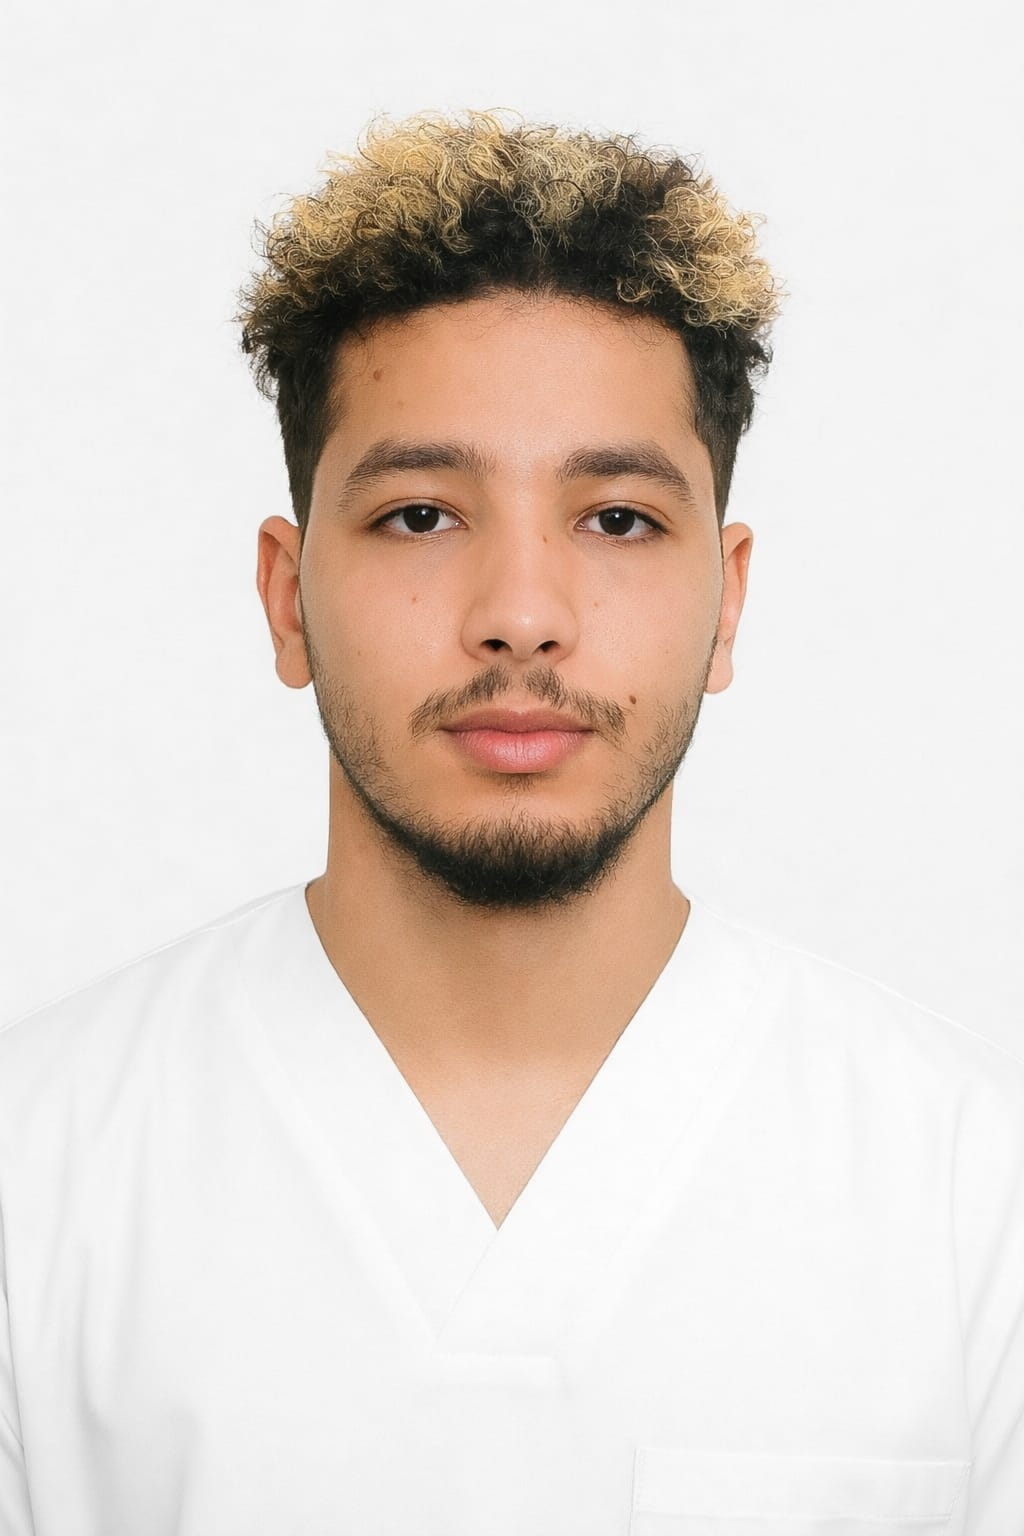
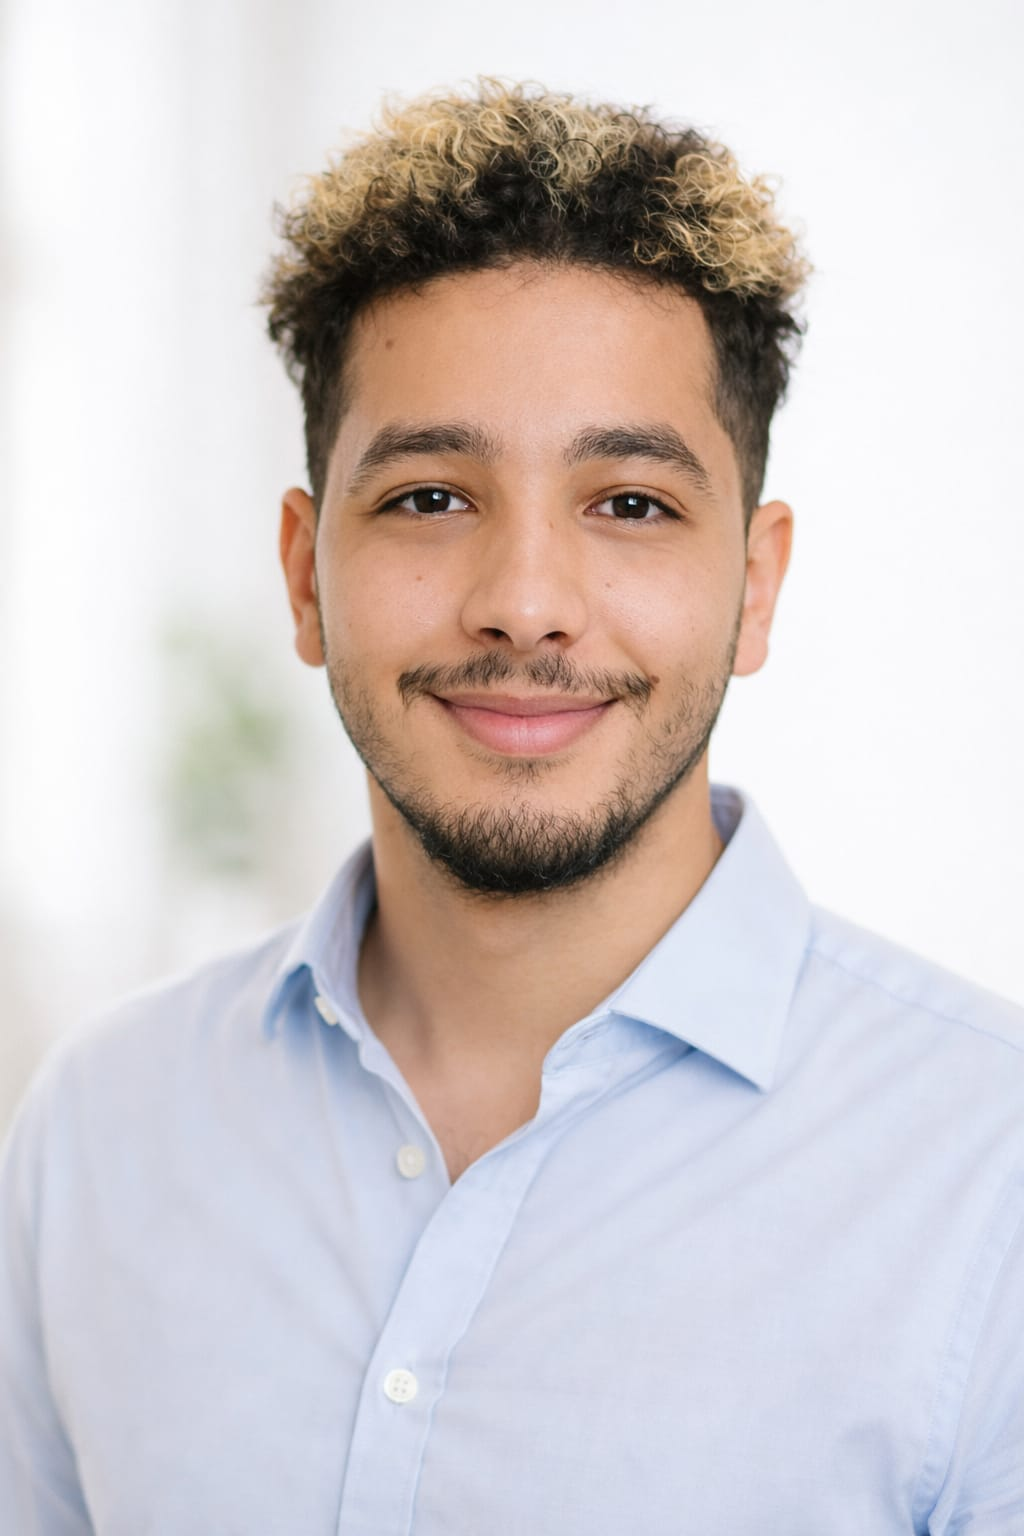
changeFF

diff --git a/index.html b/index.html
@@ -62,17 +62,16 @@
         </div>
 
         <h1 class="hero-title">
-          Hallo, ich bin <span>Yazid Aboudar</span> –
-          examinierte Pflegefachkraft mit Fokus auf ganzheitliche Patientenversorgung.
+         Examinierte Pflegefachkraft im Nachtdienst
+Mit Erfahrung in professioneller Patientenversorgung, medizinischer Behandlungspflege und strukturierter Nachtbetreuung.
         </h1>
 
         <p class="hero-subtitle">
-          Seit Oktober 2022 arbeite ich als Pflegefachkraft bei der Diakonie Pfinztal.
-          Meine Schwerpunkte liegen auf einer professionellen, ganzheitlichen Versorgung
-          von Patient:innen, medizinischer Behandlungspflege, Dokumentation und
-          interdisziplinärer Zusammenarbeit im Team. Ich orientiere mich an aktuellen
-          pflegewissenschaftlichen Standards und habe ein besonderes Interesse an der
-          Intensivpflege.
+         Seit Oktober 2022 arbeite ich als examinierte Pflegefachkraft im Nachtdienst. Meine berufliche Erfahrung begann bei der Diakonie Pfinztal, wo ich umfassende Kenntnisse in der professionellen Pflege, medizinischen Behandlungspflege und der Betreuung von Patientinnen und Patienten sammeln konnte.
+
+Seit Februar 2026 bin ich im Markgrafenstift Karlsruhe tätig und setze dort meine Arbeit im Nachtdienst fort. Zu meinen Aufgaben gehören die medizinische Behandlungspflege, die Beobachtung des Gesundheitszustandes der Bewohnerinnen und Bewohner sowie eine sorgfältige pflegerische Dokumentation.
+
+Ich arbeite strukturiert, zuverlässig und orientiere mich an aktuellen pflegewissenschaftlichen Standards. Besonders interessiert mich der Bereich der Intensivpflege sowie die professionelle Betreuung von Patientinnen und Patienten während der Nacht.
         </p>
 
         <div class="hero-tags">
@@ -112,9 +111,10 @@
           <div class="hero-stat-grid">
             <div class="hero-stat">
               <div class="hero-stat-label">Aktuelle Stelle</div>
-              <div class="hero-stat-value">Diakonie Pfinztal</div>
+              <div class="hero-stat-value">Markgrafenstift Karlsruhe</div>
               <div class="hero-stat-sub">
-                Examinierte Pflegefachkraft seit Oktober 2022.
+                Examinierte Pflegefachkraft im Nachtdienst seit Februar 2026.
+                Zuvor tätig bei der Diakonie Pfinztal (Oktober 2022 – Januar 2026).
               </div>
             </div>
 

diff --git a/style.css b/style.css
@@ -222,7 +222,8 @@ header {
 }
 
 .hero-title {
-  font-size: clamp(2.2rem, 3.1vw + 1.5rem, 3.3rem);
+  font-size: 1.8rem;
+  font-weight: 700;
   letter-spacing: -0.045em;
   margin-bottom: 0.65rem;
 }
